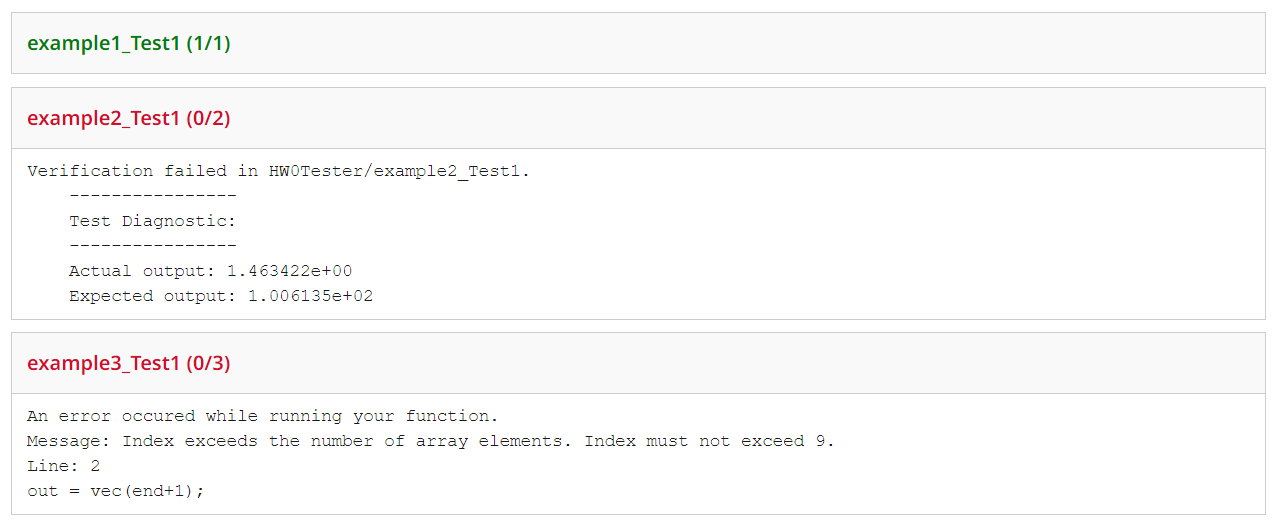
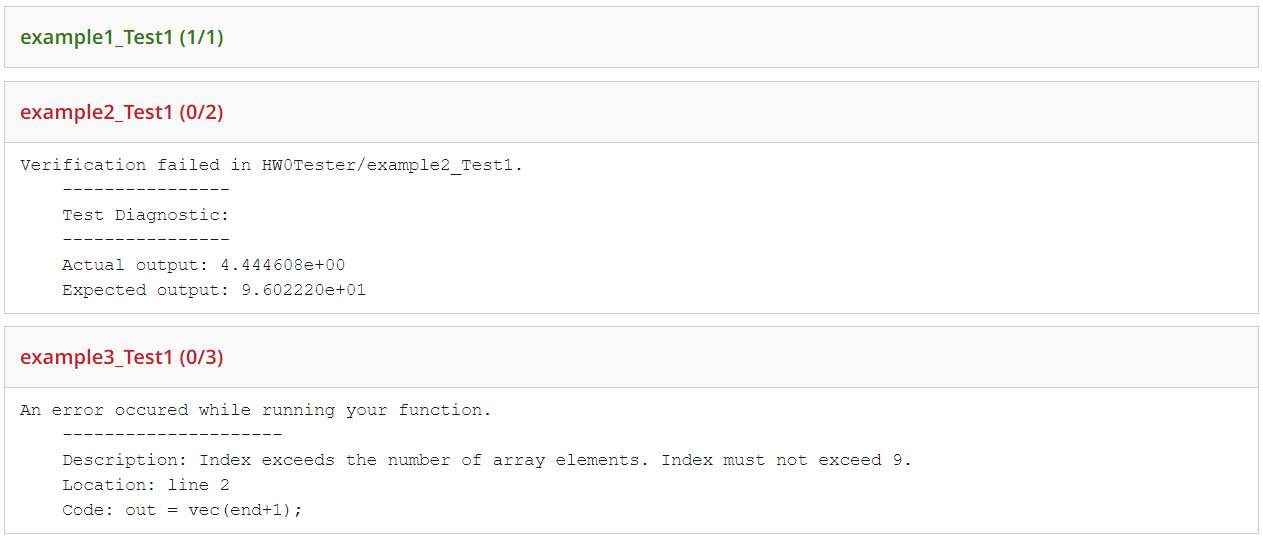
updated info

diff --git a/source/runTester.m b/source/runTester.m
@@ -37,7 +37,7 @@ for i = 1:length(tests)
             line_num = exception.stack(strcmp({exception.stack.name}, cell2mat(extractBetween(tests(i).Name, '/', '_')))).line;
             script = strip(readlines(sprintf('%s.m', extractBefore(results(i).name, '_'))));
             line = strip(script(line_num));
-            results(i).output = ['An error occured while running your function.\nMessage: ' exception.message '\nLine: ' num2str(line_num), '\n', char(line)];
+            results(i).output = ['An error occured while running your function.\n    ---------------------\n    Description: ' exception.message '\n    Location: line ' num2str(line_num), '\n    Code: ', char(line)];
         catch
             results(i).output = 'An unknown error has occured while running your function.';
         end

diff --git a/README.md b/README.md
@@ -1,9 +1,14 @@
 # CS1371-autograder
 The *new* Gradescope autograder for CS1371.
+## To-Do
+- [ ] Modify the runner once a valid Matlab license has been obtained to run inside Gradescope.
+    - Originally, the goal was to attempt to silently install Matlab (see [here](https://www.mathworks.com/help/install/ug/install-noninteractively-silent-installation.html))
+    - However, it seems like a connection to a license network server must be made instead (see [here](https://github.com/mathworks-ref-arch/matlab-dockerfile))
+- [ ] Figure out how to run the tester once that's done
+- [ ] Figure out how to get github to automatically publish the Docker image to Docker hub. Documentation [here](https://docs.github.com/en/actions/publishing-packages/publishing-docker-images) and [here](https://github.com/docker/build-push-action).
+    - So it looks like this isn't possible unless we move the github to a non-enterprise version or we pay for Docker hub
 ## Stucture
 `Dockerfile` is the file used to build our Docker environment
-- Uses gradescope/autograder-base as the base and attempts to silently install Matlab (see [here](https://www.mathworks.com/help/install/ug/install-noninteractively-silent-installation.html))
-    - No File Installation Key currently
 - To run the Docker image locally, download the repo and the Docker engine, then type `docker build /repo/download/location -t cs1371-autograder` followed by `docker run --rm -it -v /source/submit:/autograder/submission -v /source:/autograder/results cs1371-autograder:latest bash`.
     - **REPLACE `/repo/download/location` with your repo location**
     - To test the gradescope output, run `source/runTester.m` in your local Matlab, upload the resulting 'test_output.zip' to a gradescope autograder, and submit any file to get the autograder running.
@@ -11,7 +16,6 @@ The *new* Gradescope autograder for CS1371.
 - Ideally we want the Docker to be published automatically somehow.
 
 `matlab` holds the linux installation for the relevant Matlab version. 
-- To update the Matlab version, download the installer and run 'download without installing'. See [here](https://www.mathworks.com/help/install/ug/install-noninteractively-silent-installation.html) for more info.
 
 `source` holds all relevant data necessary to run the autograder
 - `source/runTester.m` is the main Matlab driver to run the test cases and output the results as a results.json.
@@ -25,9 +29,4 @@ The *new* Gradescope autograder for CS1371.
 ## Gradescope view
 What the current gradescope autograder view looks like:
 ![image](current_gradescope_view.png)
-## To-Do
-- [ ] Add ABC check implementation.
-- [ ] Modify the runner once a valid Matlab license has been obtained to run inside Gradescope.
-- [ ] Figure out how to run matlab once that's done
-- [ ] Figure out how to get github to automatically publish the Docker image to Docker hub. Documentation [here](https://docs.github.com/en/actions/publishing-packages/publishing-docker-images) and [here](https://github.com/docker/build-push-action).
-    - So it looks like this isn't possible unless we move the github to a non-enterprise version or we pay for Docker hub
+
